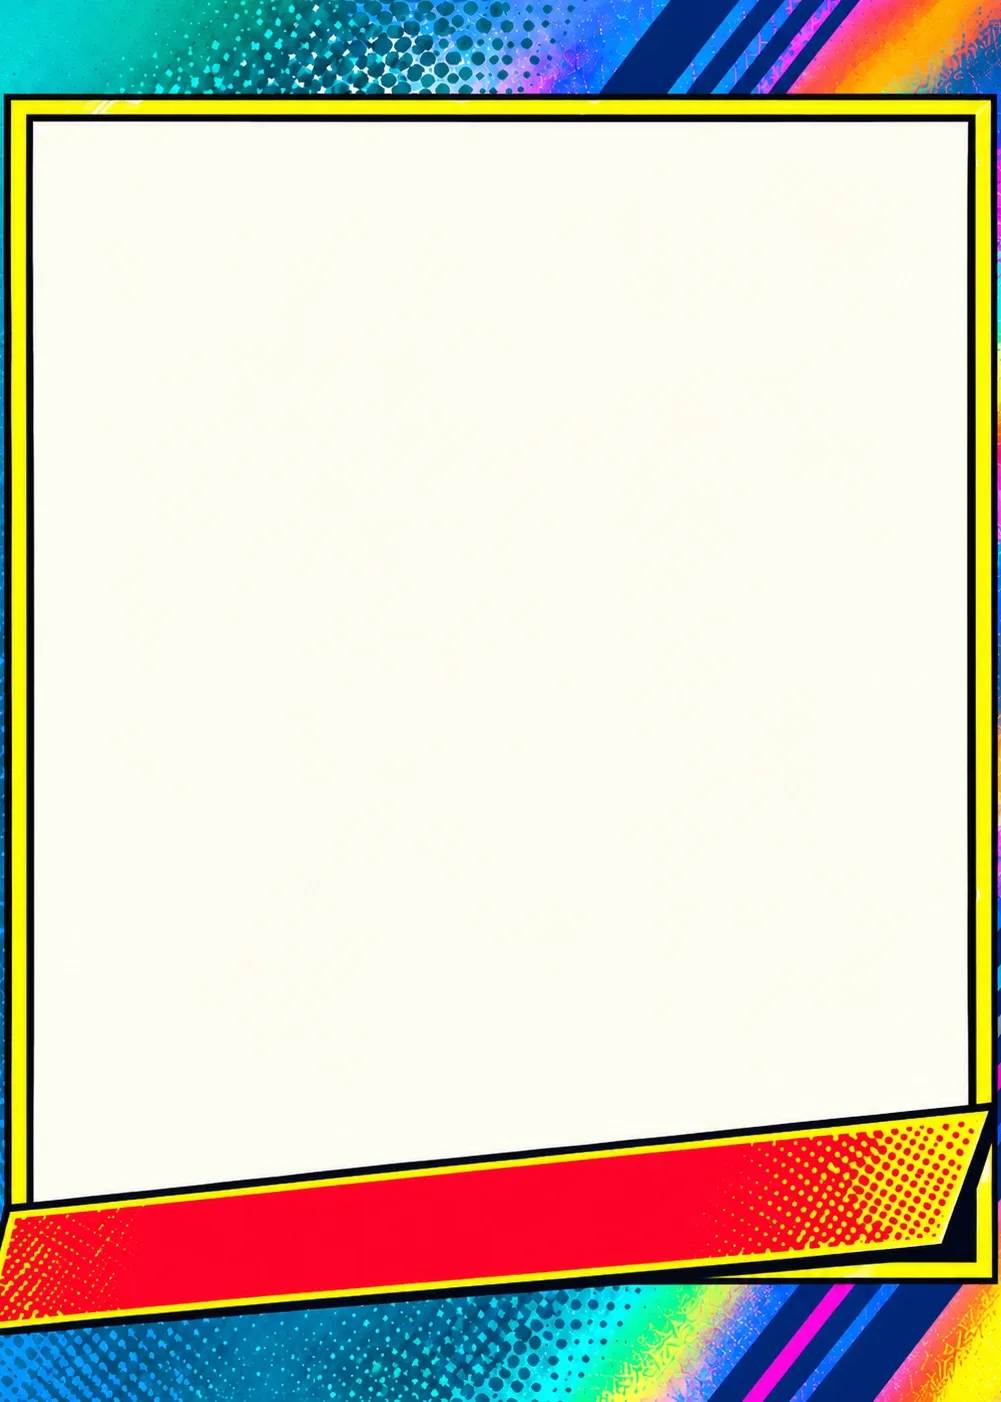
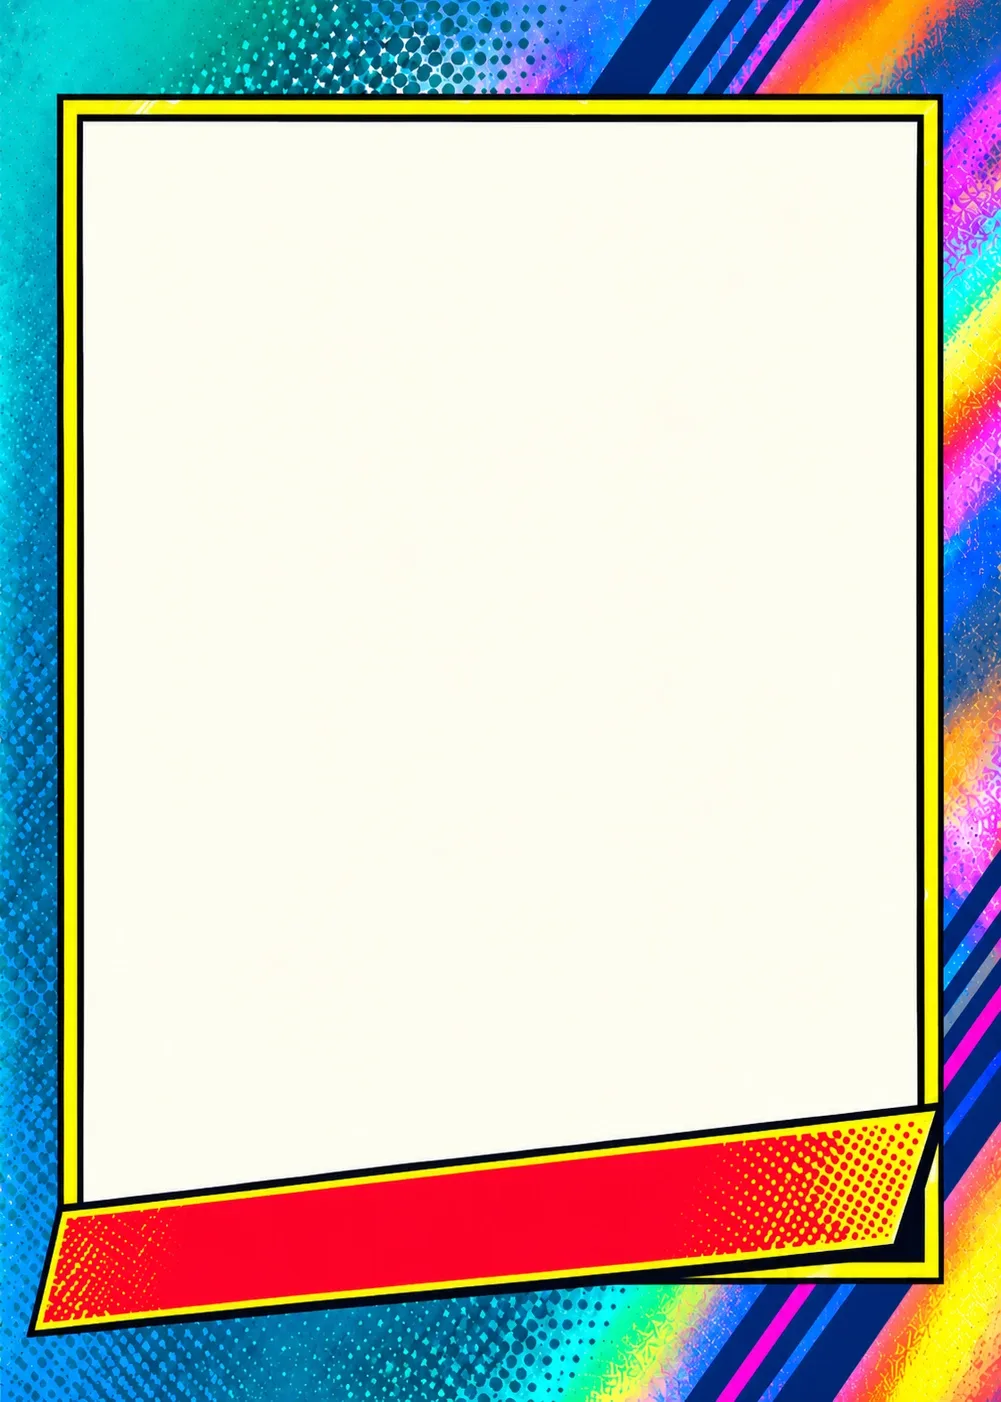
Chrome 90s back: the whole template, the company as the corner mark, condensed highlights
The back frame is fitted to the card rather than cropped, the navy header gives way to the same red mark as the front with the position and place opening the sheet, the highlights take the theme's condensed face, and the list's fade matches the sheet's cream.

Claude-Session: https://claude.ai/code/session_01Gm8UBWtQbn8uv3sSjieU6q

Changed region(s): [[0.0, 0.0, 1.0, 1.0], [0.0, 0.0, 0.031, 0.0307]]

diff --git a/web/src/styles/card.css b/web/src/styles/card.css
@@ -163,16 +163,22 @@
   font:400 calc(1cqw * var(--rs,4.4))/1 "Lilita One","Arial Black",Impact,sans-serif;letter-spacing:.04em;text-transform:uppercase;white-space:nowrap;overflow:hidden;text-overflow:ellipsis;
   -webkit-text-stroke:.42cqw #fff;paint-order:stroke fill;text-shadow:none;filter:drop-shadow(.3cqw .35cqw 0 #1c1b18); /* keylined and shadowed like the company mark, so it reads on the yellow */
   transform:rotate(-5.8deg);transform-origin:0 50%;display:flex;align-items:center}
-/* the back: its own printed frame (public/frames/chrome-back.webp), a thinner border round a taller sheet and one red plate along the bottom */
-.card.t-chrome .back{border-radius:0;border:0;color:#1c1b18;padding:12.5% 8.5% 28.8%;background:var(--frame-back) center/100% 100% no-repeat}
-.card.t-chrome .hdr{background:var(--navy);color:#fff;margin:0 0 3%;border-radius:.8cqw;box-shadow:0 0 0 1.2cqw var(--gold)}
-.card.t-chrome .hdr .t{font-family:"Lilita One","Arial Black",Impact,sans-serif;font-style:italic}
-.card.t-chrome .hdr .s{color:#ffe2a8}
+/* the back: its own printed frame (public/frames/chrome-back.webp, the whole template fitted to the card), a taller sheet and one red plate along the bottom. The company sits over the top-left corner as on the front; the position and place open the sheet */
+.card.t-chrome .back{border-radius:0;border:0;color:#1c1b18;padding:15% 10.5% 29%;background:var(--frame-back) center/100% 100% no-repeat}
+.card.t-chrome .hdr{position:static;background:transparent;color:#1c1b18;margin:0 0 2.5%;padding:0;border-radius:0;box-shadow:none;text-align:left}
+.card.t-chrome .hdr .t{position:absolute;left:6%;top:2.6%;z-index:4;max-width:84%;line-height:1;padding:.14em .5em .24em .14em;margin:-.14em -.5em -.24em -.14em;
+  font:400 13.9cqw/1 "Lilita One","Arial Black",Impact,sans-serif;font-style:italic;letter-spacing:.01em;text-transform:none;color:var(--red);
+  -webkit-text-stroke:.88cqw #fff;paint-order:stroke fill;filter:drop-shadow(.7cqw .8cqw 0 #1c1b18);transform:rotate(-4deg);transform-origin:0 100%;white-space:nowrap;overflow:hidden;text-overflow:ellipsis}
+.card.t-chrome .hdr .s{color:var(--navy);font:700 5cqw/1.2 "Barlow Condensed","Arial Narrow",sans-serif;letter-spacing:.1em;text-transform:uppercase;padding-bottom:2.5%;border-bottom:1px solid #cfc4a9}
+/* the highlights in the theme's condensed face; the list's fade in the sheet's own cream */
+.card.t-chrome .bul{font:500 5cqw/1.3 "Barlow Condensed","Arial Narrow",sans-serif;color:#1c1b2a}
+.card.t-chrome .more{background:linear-gradient(rgba(253,253,241,0),#fdfdf1 70%)}
+.card.t-chrome .more::after{border-color:var(--navy)}
 .card.t-chrome tr.cur td{color:var(--red)}
 .card.t-chrome .skills span{background:var(--navy)}
 /* the back's footer rides the red plate, which runs nearly the whole width */
-.card.t-chrome .foot{position:absolute;left:4.5%;top:86.7%;width:87%;height:7%;margin:0;padding:0 3cqw;border:0;color:#fff;font:700 4.2cqw/1 "Barlow Condensed","Arial Narrow",sans-serif;letter-spacing:.08em;text-transform:uppercase;font-style:normal;
-  transform:rotate(-5.9deg);transform-origin:0 50%;display:flex;align-items:center;justify-content:space-between;white-space:nowrap;overflow:hidden}
+.card.t-chrome .foot{position:absolute;left:5%;top:87%;width:86%;height:7%;margin:0;padding:0 3cqw;border:0;color:#fff;font:700 4.4cqw/1 "Barlow Condensed","Arial Narrow",sans-serif;letter-spacing:.08em;text-transform:uppercase;font-style:normal;
+  transform:rotate(-6.6deg);transform-origin:0 50%;display:flex;align-items:center;justify-content:space-between;white-space:nowrap;overflow:hidden}
 /* the free-agent card: the panel goes navy (painted behind the panel's content, stopping at the plates), the logo gold, the position red */
 .card.t-chrome.free .front{background:var(--frame) center/100% 100% no-repeat;border-color:transparent}
 .card.t-chrome.free .art{background:transparent;border:0;display:flex;padding:6% 6% 14%}
